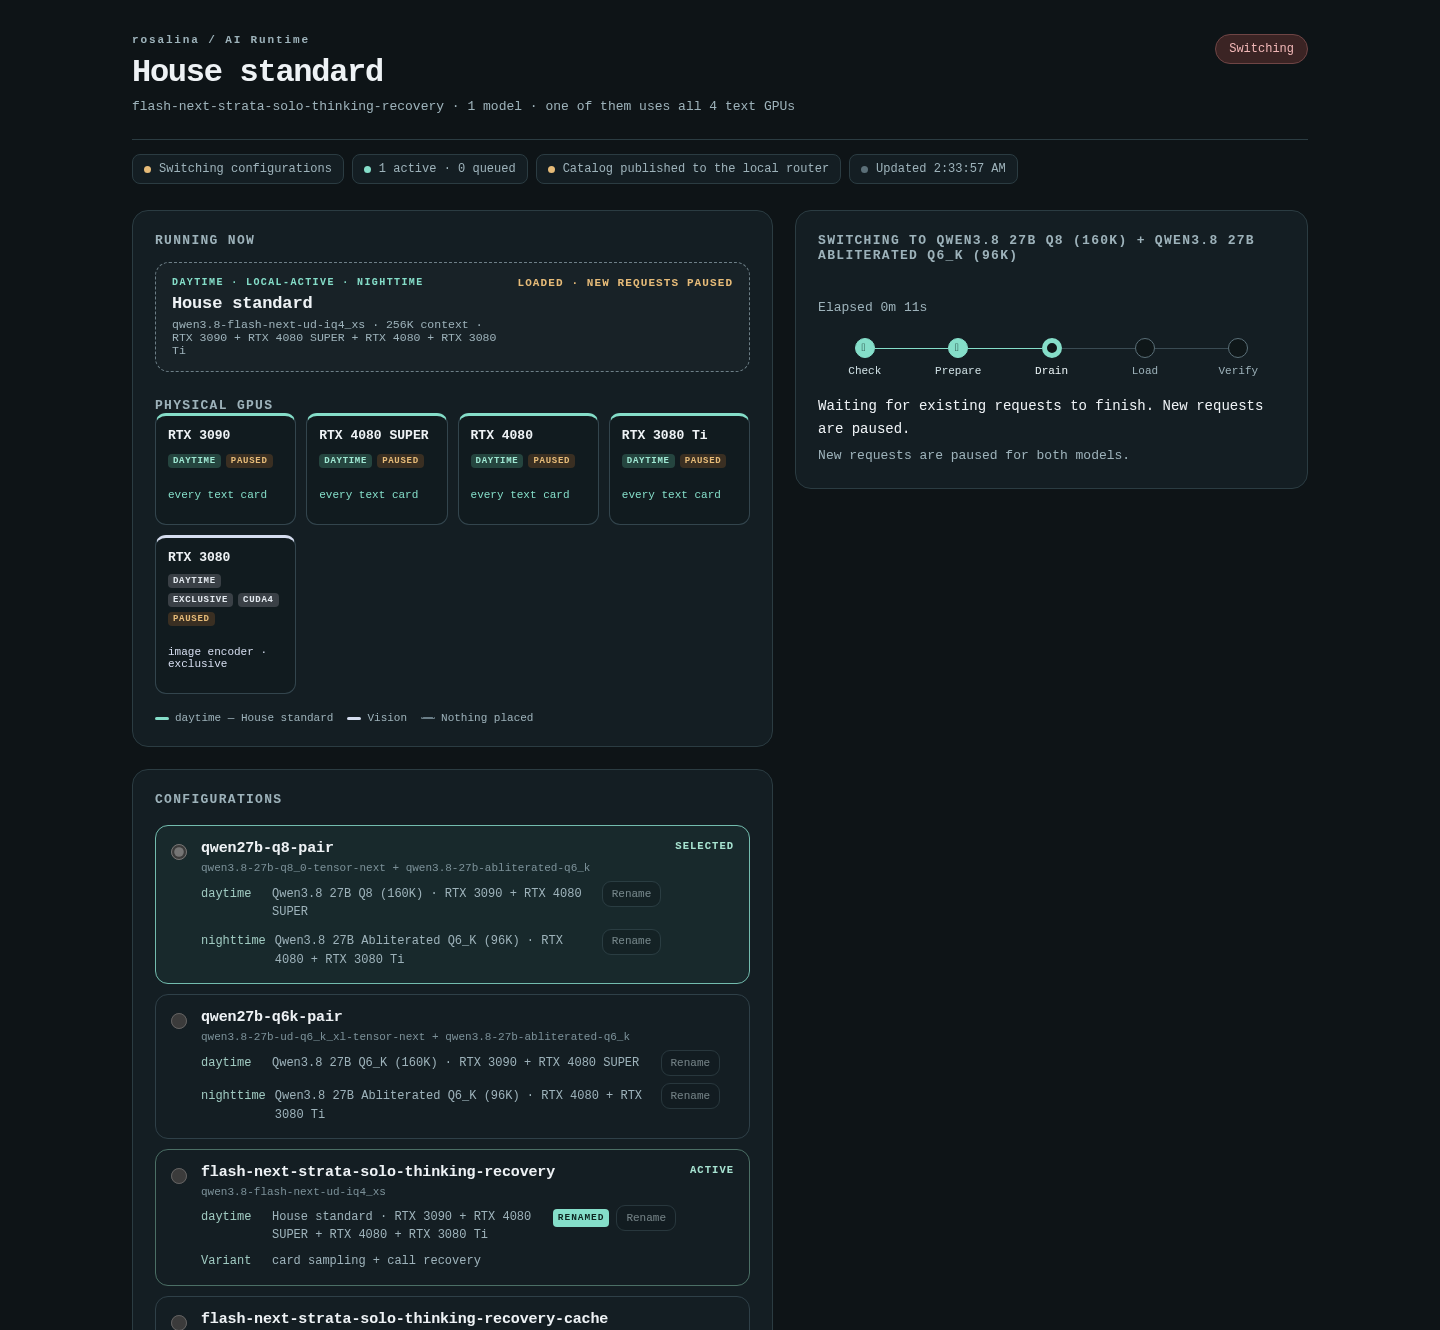
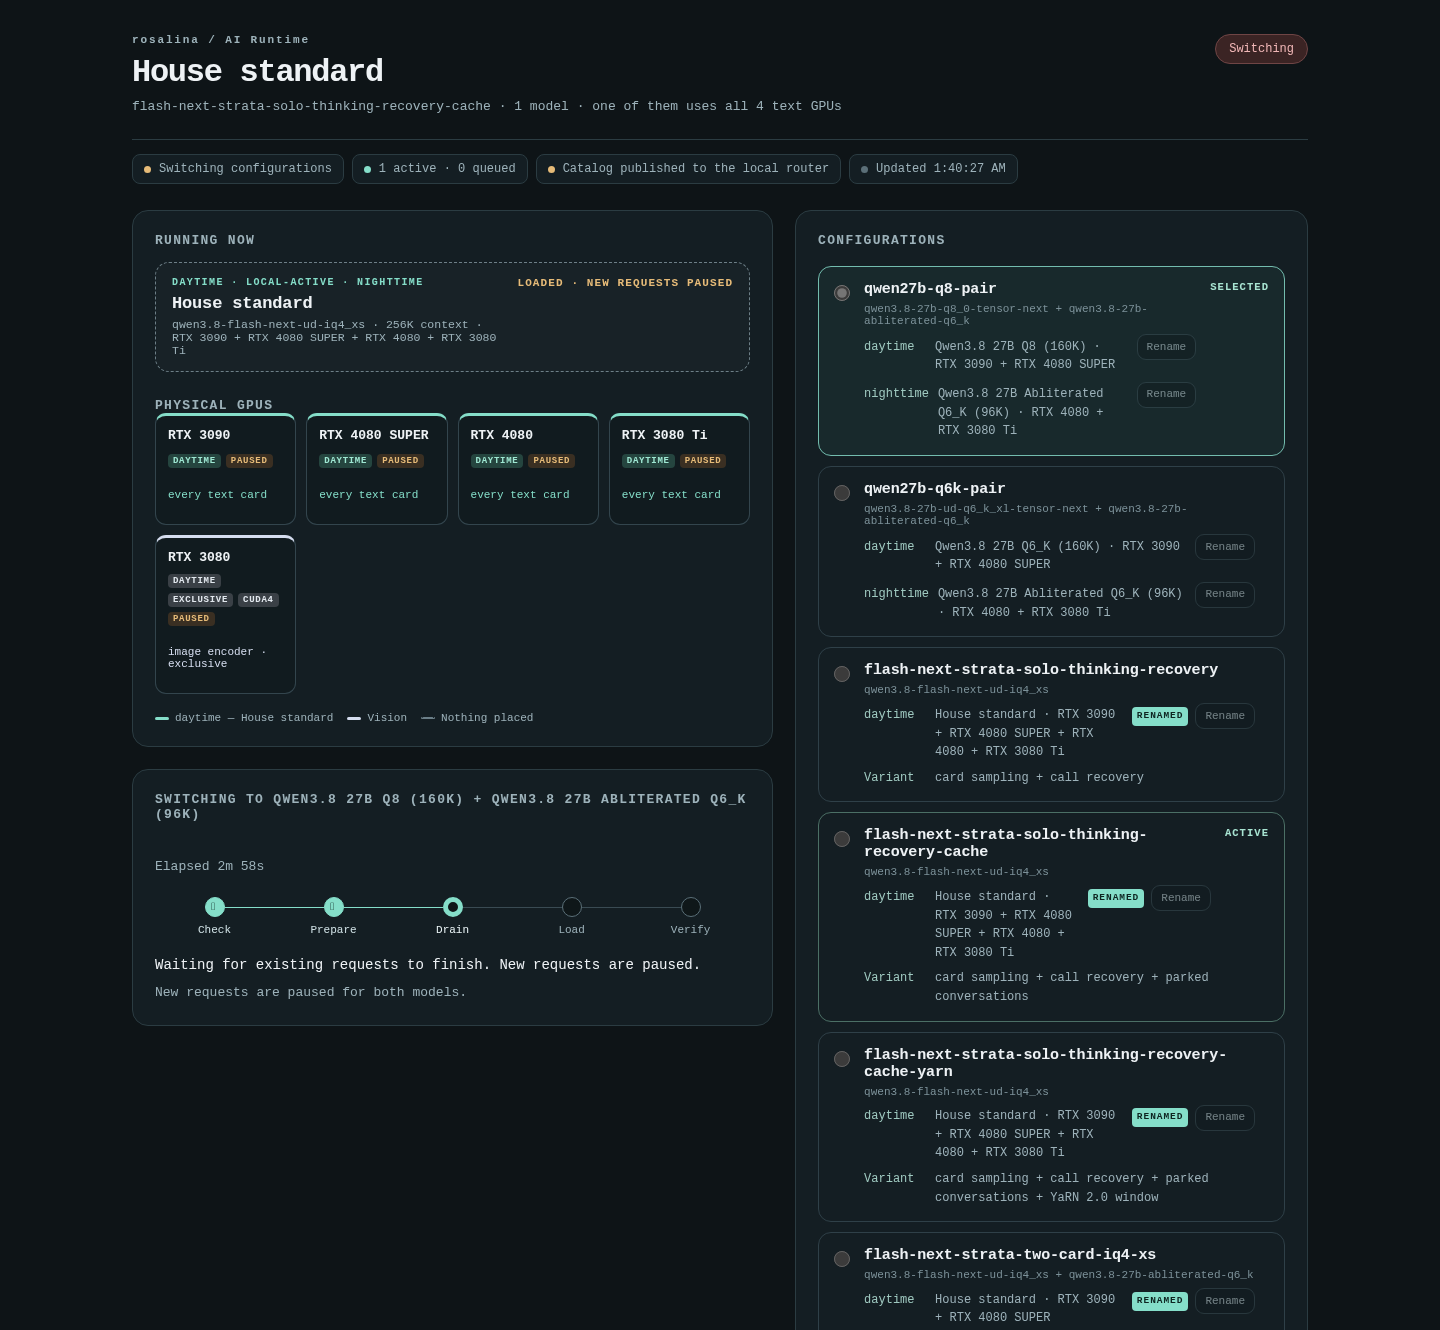
The photograph that showed the choice on the wrong side
`2-switching.png` was the drift: it shows the progress box in the right column
and the configuration list under the map, which is the arrangement two machines
on one revision used to disagree about. Re-photographed from
`scripts/preview-ui.py --state switching` at the same 1440x1330 framing, so the
four images say the same thing about the page that the page says.

The reasoning goes in the same file, because a rule that lives only in a commit
message is a rule the next panel added beside the columns will break.

diff --git a/docs/ui/README.md b/docs/ui/README.md
@@ -7,7 +7,7 @@ context window, refusal and sink below is what `GET /api/status` actually said, 
 | File | State |
 | --- | --- |
 | `1-running.png` | Steady state. The configuration in service names one model, and it owns all four text cards while the vision card answers images for it; the name the operator saved for that model is said in the header, on its card, in the map and in the list. Add `--profile qwen27b-q8-pair` and the same page draws two model cards, two saved names, and the split of the cards between them. |
-| `2-switching.png` | A drain in flight: phase stepper and elapsed time, admissions paused on every card, the target marked in the list, and the whole machine saying the same sentence about what is happening — the operation's own line ends with `Stops: <model id>, …`, the models the target does not name. |
+| `2-switching.png` | A drain in flight: phase stepper and elapsed time under the configuration being changed, admissions paused on every card, the target marked in the list, and the whole machine saying the same sentence about what is happening — the operation's own line ends with `Stops: <model id>, …`, the models the target does not name. |
 | `3-restoration.png` | Nothing serving. The restore card with the retry the runtime already scheduled, the map empty because nothing is placed, the list still readable so the next choice can be made knowingly. |
 | `4-phone.png` | Below 900px: the map above the list, GPU tiles two per row, and a model's state and its **Rename** door on a line of their own. |
 
@@ -65,3 +65,20 @@ is called.
 The earlier proposals for this layout, with the CSS they were built from, are in the history of this
 directory (`docs/ui-mockups/`, removed when the page was rebuilt). They are superseded by these
 photographs, which is the only kind of design document that cannot drift.
+
+## The two columns are not negotiable
+
+The left column is this machine as it runs; the right column is the choice. They are wrapped in the
+markup, and no panel may be added beside them, because three children auto-flowing into two columns
+place whatever comes third wherever a gap happens to be. Two machines on one revision used to draw
+two different pages for exactly that reason: a host holding a durable operation receipt spent its
+right column on the progress box — Check, Prepare, Drain, Load, Verify — and pushed the
+configuration list under the map, while a host with no receipt to show kept the list on the right.
+The one control an operator looks for moved sides depending on whether the machine had ever done
+anything, which is worse than an ugly control in a fixed place.
+
+The progress box belongs under the configuration whose change it is reporting, and it is about now:
+a run in flight, a failure, a needs-attention. A run that finished goes quiet five minutes after it
+stopped, since the receipt is one `GET /api/operations/<id>` away and the revision it ran is in the
+runtime details and in the published catalog. A restoration from three days ago is history, and
+history does not take room away from the choice.
